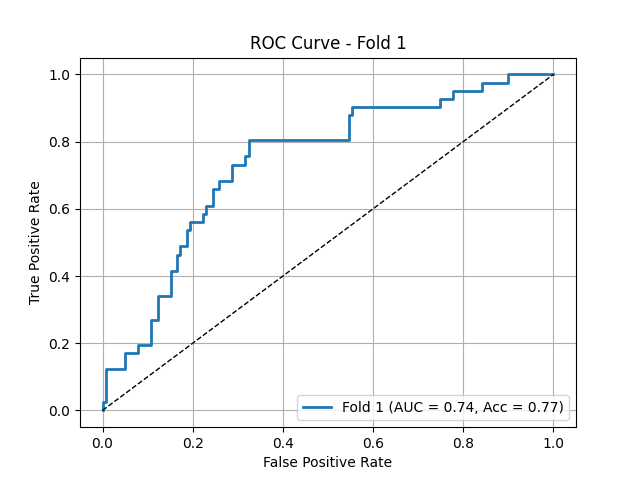
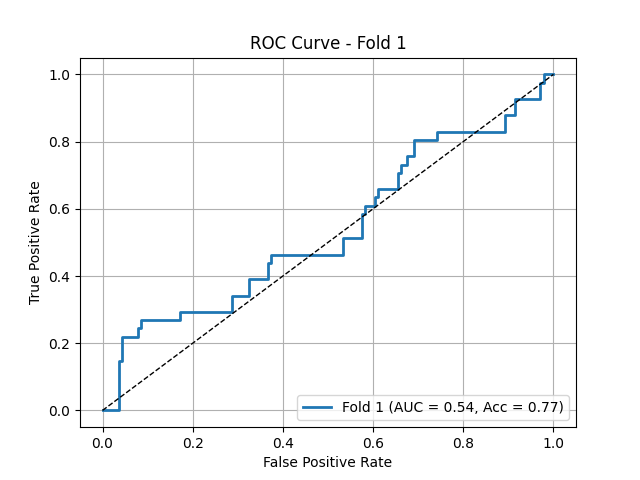
negative brightness and contrast included

diff --git a/dataset_washu2.py b/dataset_washu2.py
@@ -82,10 +82,10 @@ train_transform = A.Compose([
     A.RandomRotate90(p=0.5),
 
 	A.ShiftScaleRotate(shift_limit=(-0.005,0.005), scale_limit=(-0.1, 0.005), rotate_limit=(-40,40), border_mode=0, value=0, p=0.5), 
-    A.ElasticTransform(alpha = 5, sigma = 250, p=0.5),
+    A.ElasticTransform(alpha = 0.3, sigma = 250, p=0.5),
     A.GridDistortion(distort_limit=(-0.1,0.1), p=0.5),
 	A.GaussNoise(std_range=(0.02, 0.1), p=0.9),
-    A.RandomBrightnessContrast(brightness_limit=(0, 0.01), contrast_limit=(0, 0.01), p=0.5),
+    A.RandomBrightnessContrast(brightness_limit=(-0.01, 0.01), contrast_limit=(-0.01, 0.01), p=0.5),
     # #A.CLAHE(clip_limit=.5, tile_grid_size=(8, 8), p=0.5),
     A.Downscale(scale_range=(0.85,0.99), p=0.5),
     A.Normalize(mean=(0.5,), std=(0.5,)),
